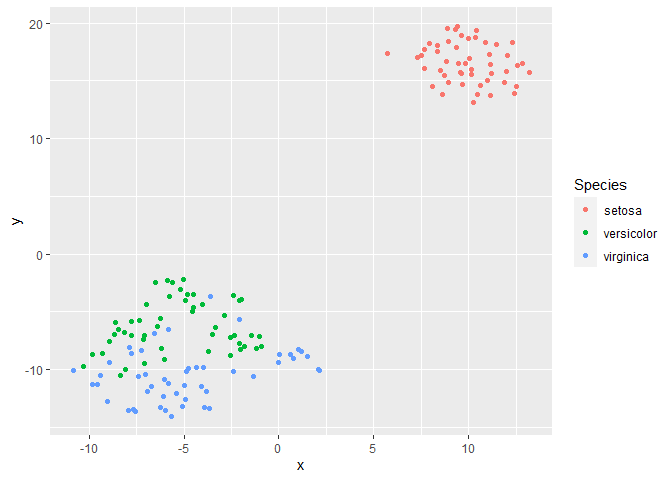
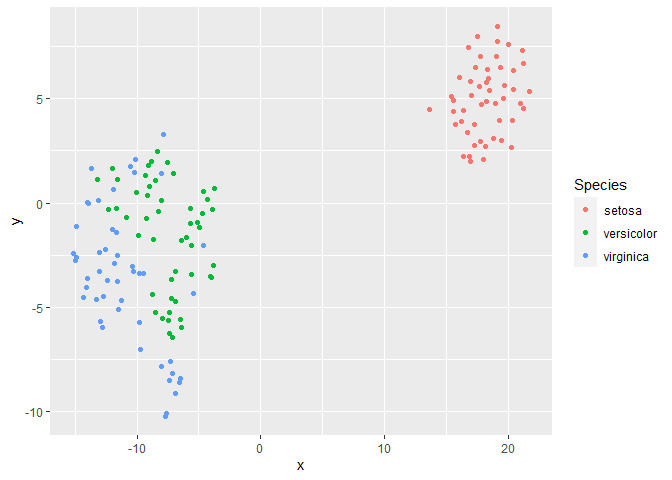
add weight

diff --git a/README.md b/README.md
@@ -29,13 +29,20 @@ This is a basic example which shows you how to solve a common problem:
 ``` r
 library(WTSNE)
 library(ggplot2)
+library(MASS)
 ## basic example code
 ```
 
 ``` r
 iris_uni <- unique(iris)
+iris_lda <- MASS::lda(Species~.,iris_uni)
+iris_p <- predict(iris_lda,iris_uni)$posterior
+iris_p_max <- apply(iris_p,1,max)
+
+good_fit <- (iris_p_max > quantile(iris_p_max,0.50))
+weight <- ifelse(good_fit,2,1)
 set.seed(123)
-iris_tsne <- WTSNE(iris_uni[,1:4])
+iris_tsne <- WTSNE(iris_uni[,1:4],weight=weight)
 y <- as.data.frame(iris_tsne$Y)
 y <- cbind(y,iris_uni$Species)
 names(y) <- c("x","y","Species")
